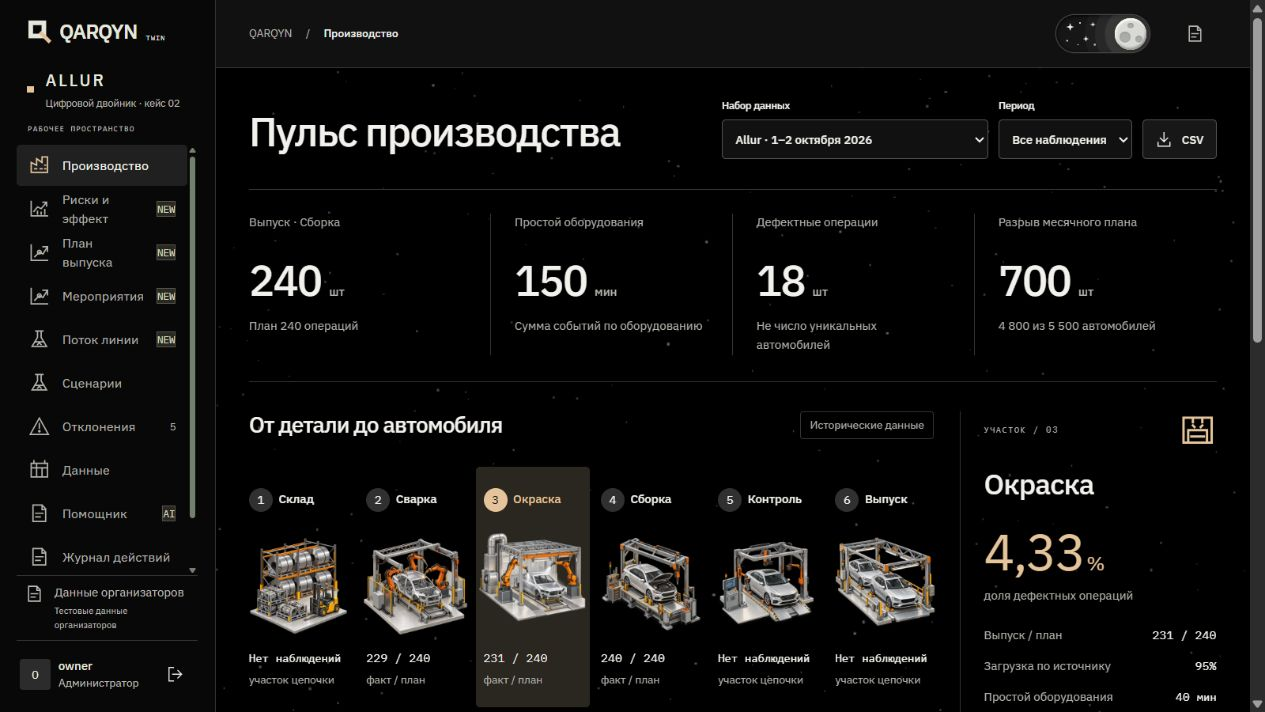
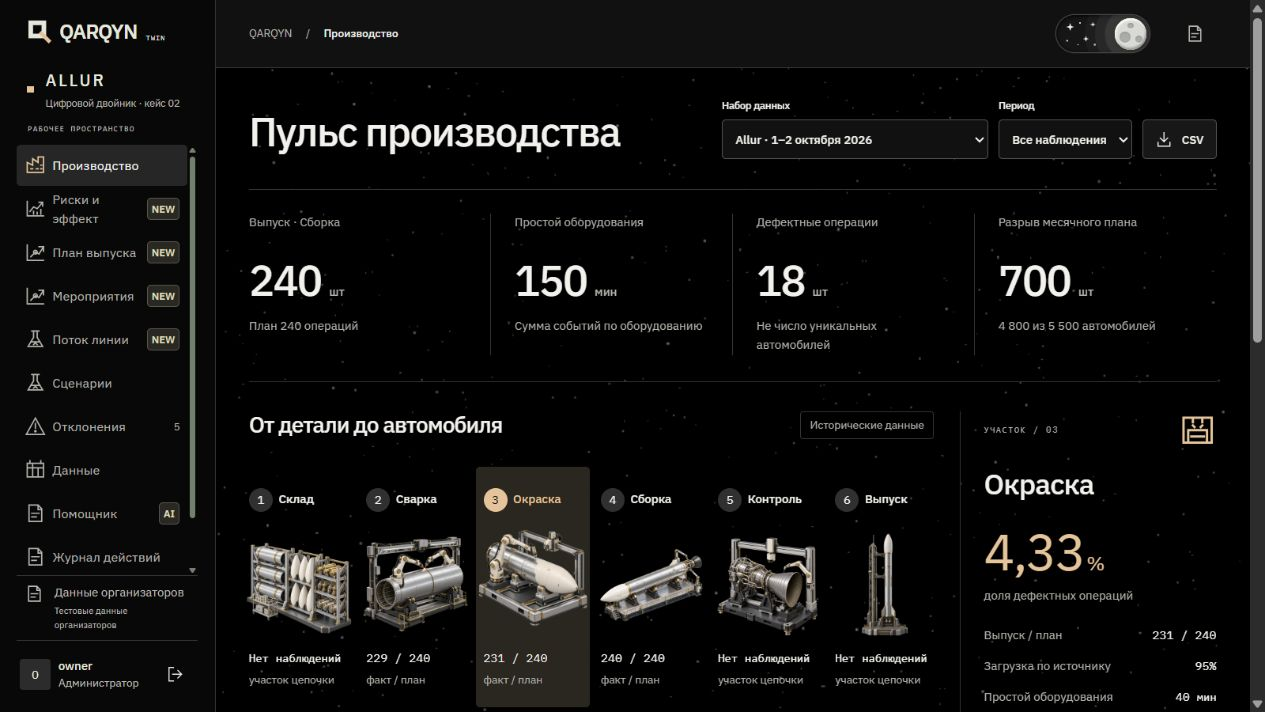
Refresh theme previews and documentation

diff --git a/README.md b/README.md
@@ -53,11 +53,11 @@ QARQYN помогает инженеру найти потери, оценить
 
 ### Производство: одна система, два оформления
 
-|                               Светлая тема · автомобильные участки                               |                              Тёмная тема · автомобильные участки                              |
+|                               Светлая тема · автомобильные участки                               |                               Тёмная тема · космические станции                               |
 | :----------------------------------------------------------------------------------------------: | :-------------------------------------------------------------------------------------------: |
 | [![Производство в светлой теме](docs/assets/overview-light.jpg)](docs/assets/overview-light.jpg) | [![Производство в тёмной теме](docs/assets/overview-dark.jpg)](docs/assets/overview-dark.jpg) |
 
-Нажмите на снимок, чтобы рассмотреть его в полном размере. На главной тема меняет иллюстрации; рабочее производство сохраняет автомобильные участки в обеих темах. Данные и расчёты остаются теми же.
+Нажмите на снимок, чтобы рассмотреть его в полном размере. Светлая тема показывает автомобильный завод и его участки; тёмная — космический комплекс и ракетные станции. Меняется оформление, а производственные данные, подписи этапов и расчёты остаются теми же.
 
 | Рабочий вопрос                                        | Инструмент QARQYN                  | Что получает инженер                                                                            |
 | ----------------------------------------------------- | ---------------------------------- | ----------------------------------------------------------------------------------------------- |
@@ -72,7 +72,7 @@ QARQYN помогает инженеру найти потери, оценить
 | Как проверить предложение ИИ?                         | Помощник                           | Диалог, ссылки на записи, редактируемый сценарий и независимый серверный пересчёт               |
 | Как работать со своими данными?                       | Данные и отклонения                | Импорт JSON/CSV/XLSX, версии данных, редактирование, задачи и журнал действий                   |
 
-Интерфейс адаптирован для компьютера и телефона. Тёмная тема использует чёрный фон и звёздное поле Three.js; космический комплекс остаётся визуальным оформлением главной, а производственные участки показывают автомобили. Движение учитывает reduced motion и останавливается в скрытой вкладке; при недоступном WebGL остаётся статический фон. Светлая тема доступна одним нажатием, выбор сохраняется. Видео сборки на главной управляется прокруткой без плеера; при ограничении движения показан неподвижный кадр. Собственные SVG-иконки объединяют главную и рабочее пространство. [Происхождение иллюстраций →](docs/cosmic-assets.md)
+Интерфейс адаптирован для компьютера и телефона. Тёмная тема использует чёрный фон, звёздное поле Three.js, космический комплекс на главной и ракетные станции в обзоре производства. Светлая тема сохраняет автомобильные иллюстрации. Движение учитывает reduced motion и останавливается в скрытой вкладке; при недоступном WebGL остаётся статический фон. Тема доступна одним нажатием, выбор сохраняется. Видео сборки на главной управляется прокруткой без плеера; при ограничении движения показан неподвижный кадр. Собственные SVG-иконки объединяют главную и рабочее пространство. [Происхождение иллюстраций →](docs/cosmic-assets.md)
 
 <details>
 <summary><strong>Посмотреть анимацию сборки</strong></summary>

diff --git a/docs/cosmic-assets.md b/docs/cosmic-assets.md
@@ -1,6 +1,6 @@
 # Космические иллюстрации QARQYN
 
-Набор космических материалов содержит семь иллюстраций: общий комплекс и шесть станций. Комплекс используется на главной странице в тёмной теме; станции сохранены как визуальные материалы. Рабочее производство показывает автомобильные изображения в обеих темах, чтобы оформление не меняло предметный смысл данных. Изображения созданы с помощью ИИ и не являются фотографиями Allur, схемами оборудования или производственными данными.
+Набор космических материалов содержит семь иллюстраций: общий комплекс и шесть станций. Комплекс используется на главной странице в тёмной теме, станции — в обзоре производства. Светлая тема показывает автомобильные участки. Смена оформления сохраняет подписи, производственные данные и расчёты. Изображения созданы с помощью ИИ и не являются фотографиями Allur, схемами оборудования или производственными данными.
 
 ## Файлы
 
@@ -18,7 +18,7 @@
 
 ## Темы и выбор размера
 
-[Карта ресурсов](../src/stage-assets.js) поддерживает варианты `cosmic` и `stage`. [Рабочее производство](../src/Overview.jsx) и [обратный план](../src/TargetPlanner.jsx) используют автомобильный вариант `stage` независимо от темы. Для неизвестного участка предусмотрен нейтральный `stage-generic.svg`.
+[Карта ресурсов](../src/stage-assets.js) поддерживает варианты `cosmic` и `stage`. [Обзор производства](../src/Overview.jsx) использует автомобильный `stage` в светлой теме и космический `cosmic` в тёмной. [Обратный план](../src/TargetPlanner.jsx) использует автомобильные миниатюры. Для неизвестного участка предусмотрен нейтральный `stage-generic.svg`.
 
 [Главная страница](../src/Landing.jsx) использует `factory-hero.webp` в светлой теме и космический комплекс в тёмной. Для тёмного варианта доступны ширины 768 и 1536 пикселей. Изображения станций подключаются через `srcset` с вариантами 384 и 768 пикселей; атрибут `sizes` описывает их размер в макете. Браузер выбирает ресурс с учётом ширины экрана и плотности пикселей. Подключение станций также используется в [обзоре производства](../src/Overview.jsx).
 
